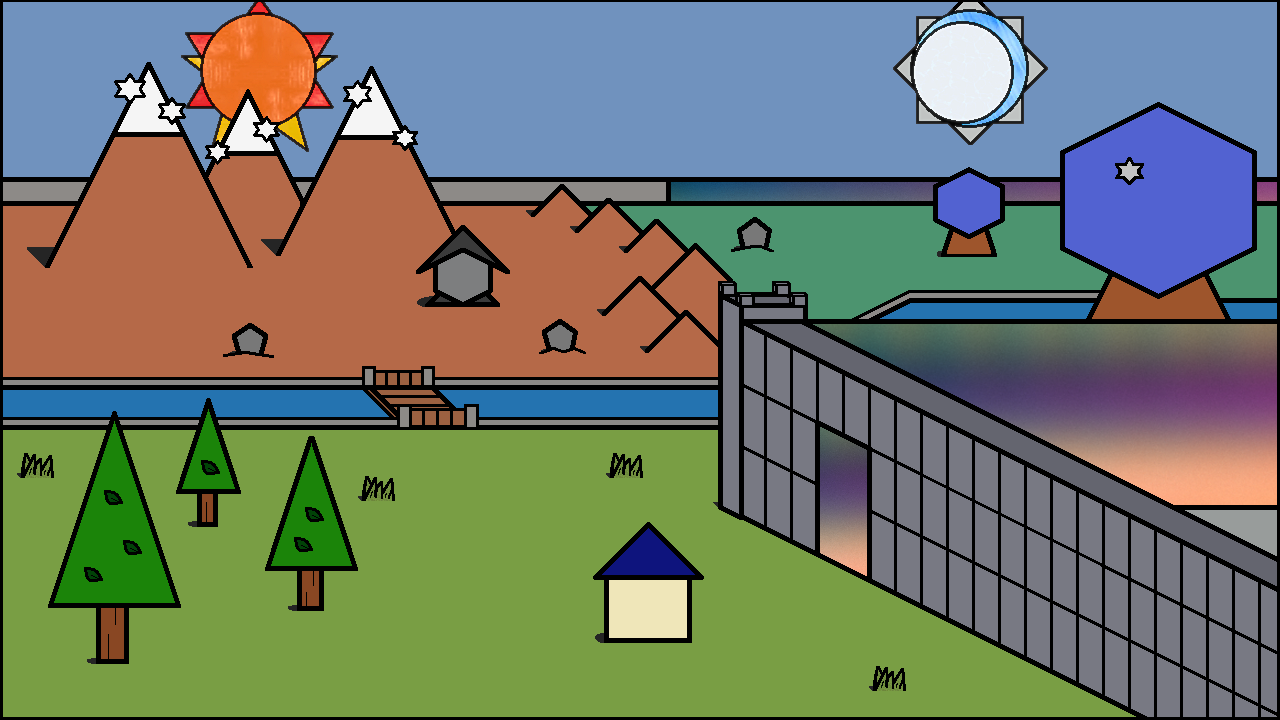
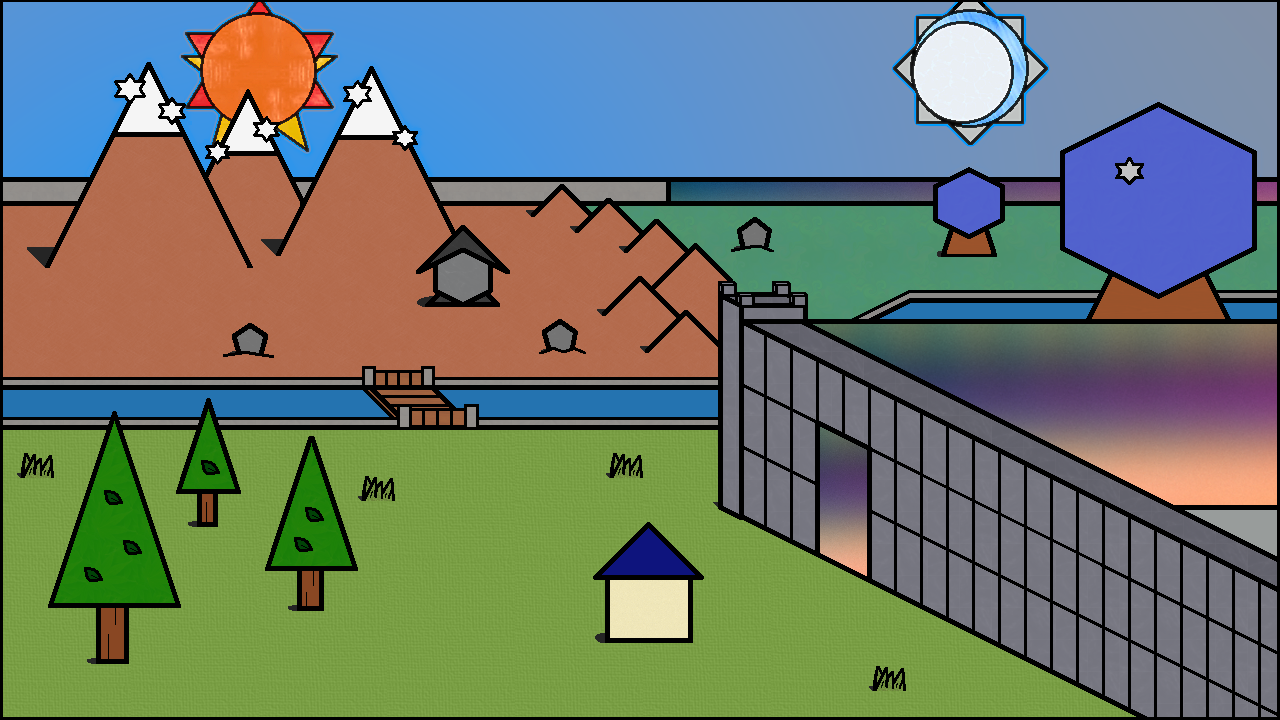
More start screen work.

Changed region(s): [[0.0, 0.0, 0.5312, 0.2444], [0.9375, 0.3972, 1.0, 0.4278]]

diff --git a/main.py b/main.py
@@ -5776,6 +5776,10 @@ if __name__ == "__main__":
     eldream_hearth_screen = graphic_dict["eldream_hearth_screen"]
     game_over_screen = graphic_dict["game_over_screen"]
     start_screen = graphic_dict["start_screen"]
+    start_screen_0 = graphic_dict["start_screen_0"]
+    start_screen_1 = graphic_dict["start_screen_1"]
+    start_screen_2 = graphic_dict["start_screen_2"]
+    start_screen_3 = graphic_dict["start_screen_3"]
     nera_sleep_screen = graphic_dict["nera_sleep_screen"]
     korlok_district_bg = graphic_dict["korlok_bg_screen"]
     korlok_mines_bg = graphic_dict["korlok_mines"]
@@ -6116,8 +6120,8 @@ if __name__ == "__main__":
 
     character_button = UiElement("character button", 860, 680, graphic_dict["character_button_img"])
     quests_button = UiElement("quests button", 970, 680, graphic_dict["journal_button_img"])
-    new_game_button = UiElement("new game button", 640, 342, graphic_dict["new_game_img"])
-    continue_button = UiElement("continue button", 640, 425, graphic_dict["continue_img"])
+    new_game_button = UiElement("new game button", 640, 422, graphic_dict["new_game_img"])
+    continue_button = UiElement("continue button", 640, 505, graphic_dict["continue_img"])
 
     amuna_button = UiElement("amuna button", 70, 245, graphic_dict["amuna_button_img"])
     nuldar_button = UiElement("nuldar button", 70, 340, graphic_dict["nuldar_button_img"])
@@ -6898,6 +6902,7 @@ if __name__ == "__main__":
     level_visual_tic = time.perf_counter()
     critter_tic = time.perf_counter()
     worker_delay_tic = time.perf_counter()
+    intro_animation_tic = time.perf_counter()
 
     # main loop --------------------------------------------------------------------------------------------------------
     while game_running:
@@ -6911,14 +6916,33 @@ if __name__ == "__main__":
                 drawing_functions.level_up_visual.pop(0)
 
         if not new_game_chosen and not continue_game_chosen and not start_chosen:
+
+            intro_animation_toc = time.perf_counter()
+
             if SCREEN_WIDTH != 1280 and SCREEN_HEIGHT != 720:
                 screen.blit(start_screen, (0, 0))
-                screen.blit(new_game_button.surf, new_game_button.rect)
-                screen.blit(continue_button.surf, continue_button.rect)
+                if intro_animation_toc - intro_animation_tic > 2:
+                    screen.blit(start_screen_0, (0, 0))
+                if intro_animation_toc - intro_animation_tic > 4:
+                    screen.blit(start_screen_1, (0, 0))
+                if intro_animation_toc - intro_animation_tic > 6:
+                    screen.blit(start_screen_2, (0, 0))
+                if intro_animation_toc - intro_animation_tic > 8:
+                    screen.blit(start_screen_3, (0, 0))
+                    screen.blit(new_game_button.surf, new_game_button.rect)
+                    screen.blit(continue_button.surf, continue_button.rect)
             else:
                 game_window.blit(start_screen, (0, 0))
-                game_window.blit(new_game_button.surf, new_game_button.rect)
-                game_window.blit(continue_button.surf, continue_button.rect)
+                if intro_animation_toc - intro_animation_tic > 2:
+                    game_window.blit(start_screen_0, (0, 0))
+                if intro_animation_toc - intro_animation_tic > 4:
+                    game_window.blit(start_screen_1, (0, 0))
+                if intro_animation_toc - intro_animation_tic > 6:
+                    game_window.blit(start_screen_2, (0, 0))
+                if intro_animation_toc - intro_animation_tic > 8:
+                    game_window.blit(start_screen_3, (0, 0))
+                    game_window.blit(new_game_button.surf, new_game_button.rect)
+                    game_window.blit(continue_button.surf, continue_button.rect)
 
             if len(save_data_window) > 0:
                 for element in save_data_window:
@@ -6939,22 +6963,22 @@ if __name__ == "__main__":
                 ratio_y = (SCREEN_HEIGHT / screen.get_height())
                 pos = (init_pos[0] / ratio_x, init_pos[1] / ratio_y)
 
-                button_highlighted = button_highlighter(pos)
-
-                if event.type == pygame.MOUSEBUTTONUP:
-                    # player chooses to start a new game or continue from previous
-                    if new_game_button.rect.collidepoint(pos):
-                        pygame.mixer.find_channel(True).play(sfx_button_click)
-                        new_game_chosen = True
-                        button_highlighted = False
-                        save_data_window.clear()
-                    if continue_button.rect.collidepoint(pos):
-                        pygame.mixer.find_channel(True).play(sfx_button_start)
-                        continue_game_chosen = True
-                        button_highlighted = False
-                    # click to dismiss save absent popup if player tries to continue with no save file
-                    if save_absent.rect.collidepoint(pos):
-                        save_data_window.clear()
+                if intro_animation_toc - intro_animation_tic > 8:
+                    button_highlighted = button_highlighter(pos)
+                    if event.type == pygame.MOUSEBUTTONUP:
+                        # player chooses to start a new game or continue from previous
+                        if new_game_button.rect.collidepoint(pos):
+                            pygame.mixer.find_channel(True).play(sfx_button_click)
+                            new_game_chosen = True
+                            button_highlighted = False
+                            save_data_window.clear()
+                        if continue_button.rect.collidepoint(pos):
+                            pygame.mixer.find_channel(True).play(sfx_button_start)
+                            continue_game_chosen = True
+                            button_highlighted = False
+                        # click to dismiss save absent popup if player tries to continue with no save file
+                        if save_absent.rect.collidepoint(pos):
+                            save_data_window.clear()
                 elif event.type == QUIT:
                     sys.exit()
 

diff --git a/graphics.py b/graphics.py
@@ -102,7 +102,11 @@ def load_graphics():
     korlok_hearth_screen = pygame.image.load(resource_path('resources/art/screen_korlok_hearth.png')).convert_alpha()
     eldream_hearth_screen = pygame.image.load(resource_path('resources/art/screen_eldream_hearth.png')).convert_alpha()
     game_over_screen = pygame.image.load(resource_path('resources/art/screen_game_over.png')).convert_alpha()
-    start_screen = pygame.image.load(resource_path('resources/art/screen_start.png')).convert_alpha()
+    start_screen = pygame.image.load(resource_path('resources/art/start_screen.png')).convert_alpha()
+    start_screen_0 = pygame.image.load(resource_path('resources/art/start_screen_0.png')).convert_alpha()
+    start_screen_1 = pygame.image.load(resource_path('resources/art/start_screen_1.png')).convert_alpha()
+    start_screen_2 = pygame.image.load(resource_path('resources/art/start_screen_2.png')).convert_alpha()
+    start_screen_3 = pygame.image.load(resource_path('resources/art/start_screen_3.png')).convert_alpha()
     nera_sleep_screen = pygame.image.load(resource_path('resources/art/screen_nera_sleep.png')).convert_alpha()
     bar_backdrop = pygame.image.load(resource_path('resources/art/overlay_status_bar_backdrop.png')).convert_alpha()
     enemy_status = pygame.image.load(resource_path('resources/art/overlay_enemy_status_backdrop.png')).convert_alpha()
@@ -197,7 +201,8 @@ def load_graphics():
                   mines_wall, mines_light, korlok_mountains, terra_mountains, terra_cave, weapon_select,
                   overlay_eldream_river, overlay_advantages, overlay_ectrene, pet_energy_overlay, overlay_chroma_bridge,
                   chroma_small, stardust_top, alcove_star, tree_tops, a_building_tops, level_up_vis, n_building_tops,
-                  kart_overworld, kart_big_full, mirror_overlay]
+                  kart_overworld, kart_big_full, mirror_overlay, start_screen_0, start_screen_1, start_screen_2,
+                  start_screen_3]
 
     for image in color_keys:
         image.set_colorkey((255, 255, 255))
@@ -260,6 +265,10 @@ def load_graphics():
     loaded_dict["eldream_hearth_screen"] = eldream_hearth_screen
     loaded_dict["game_over_screen"] = game_over_screen
     loaded_dict["start_screen"] = start_screen
+    loaded_dict["start_screen_0"] = start_screen_0
+    loaded_dict["start_screen_1"] = start_screen_1
+    loaded_dict["start_screen_2"] = start_screen_2
+    loaded_dict["start_screen_3"] = start_screen_3
     loaded_dict["nera_sleep_screen"] = nera_sleep_screen
     loaded_dict["bar_backdrop"] = bar_backdrop
     loaded_dict["enemy_status"] = enemy_status
